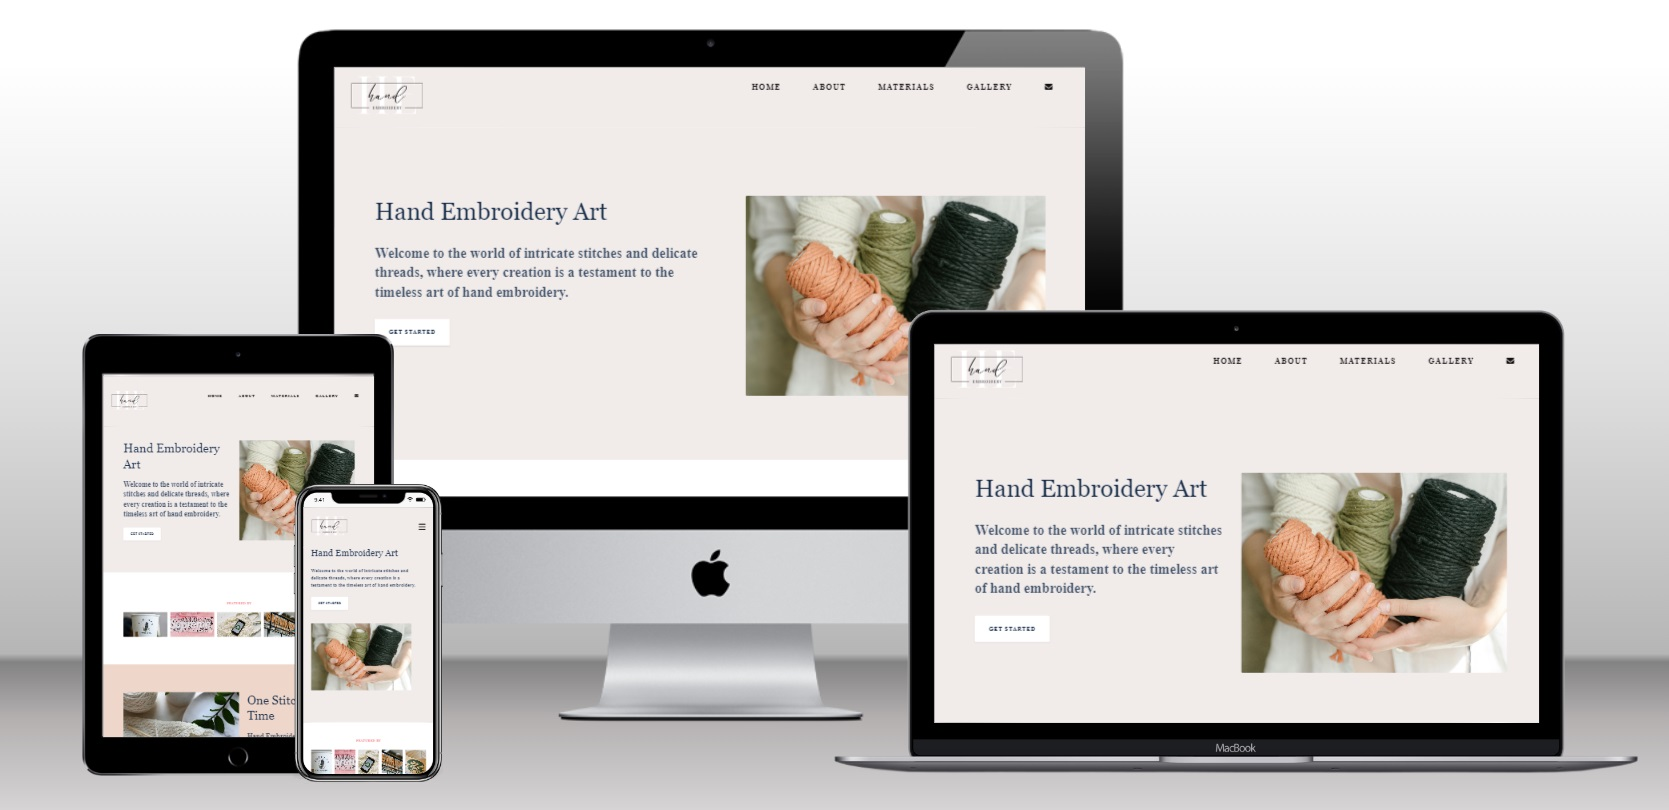
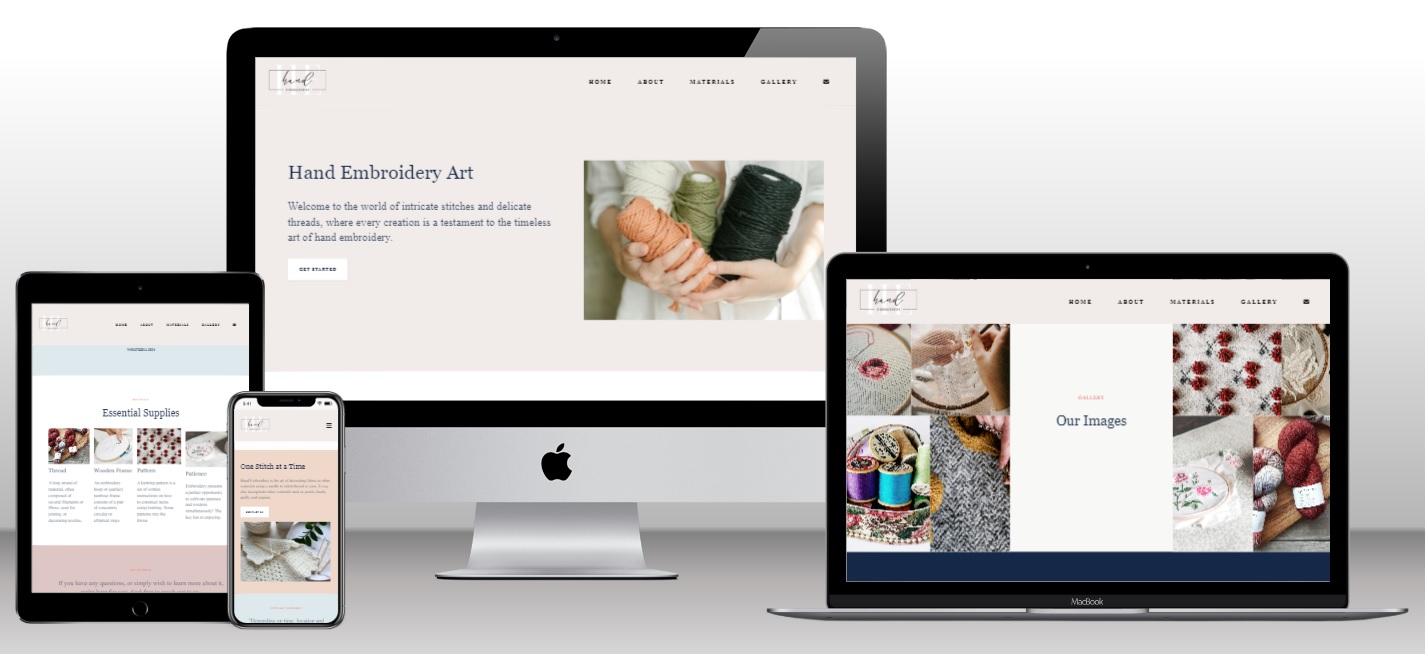
mockup image replaced

diff --git a/assets/css/small-screens.css b/assets/css/small-screens.css
@@ -78,10 +78,14 @@
         font-size: 1.75rem;
     }
 
+    #materials {
+        padding: 60px 0;            
+    }
     .materials-container {
         display: flex;
         flex-direction: column;
-        justify-items: center;
+        justify-items: start;
+        width: 100%;        
     }
     .materials-item:not(:first-child) {
         padding: 24px 0 0 0;
